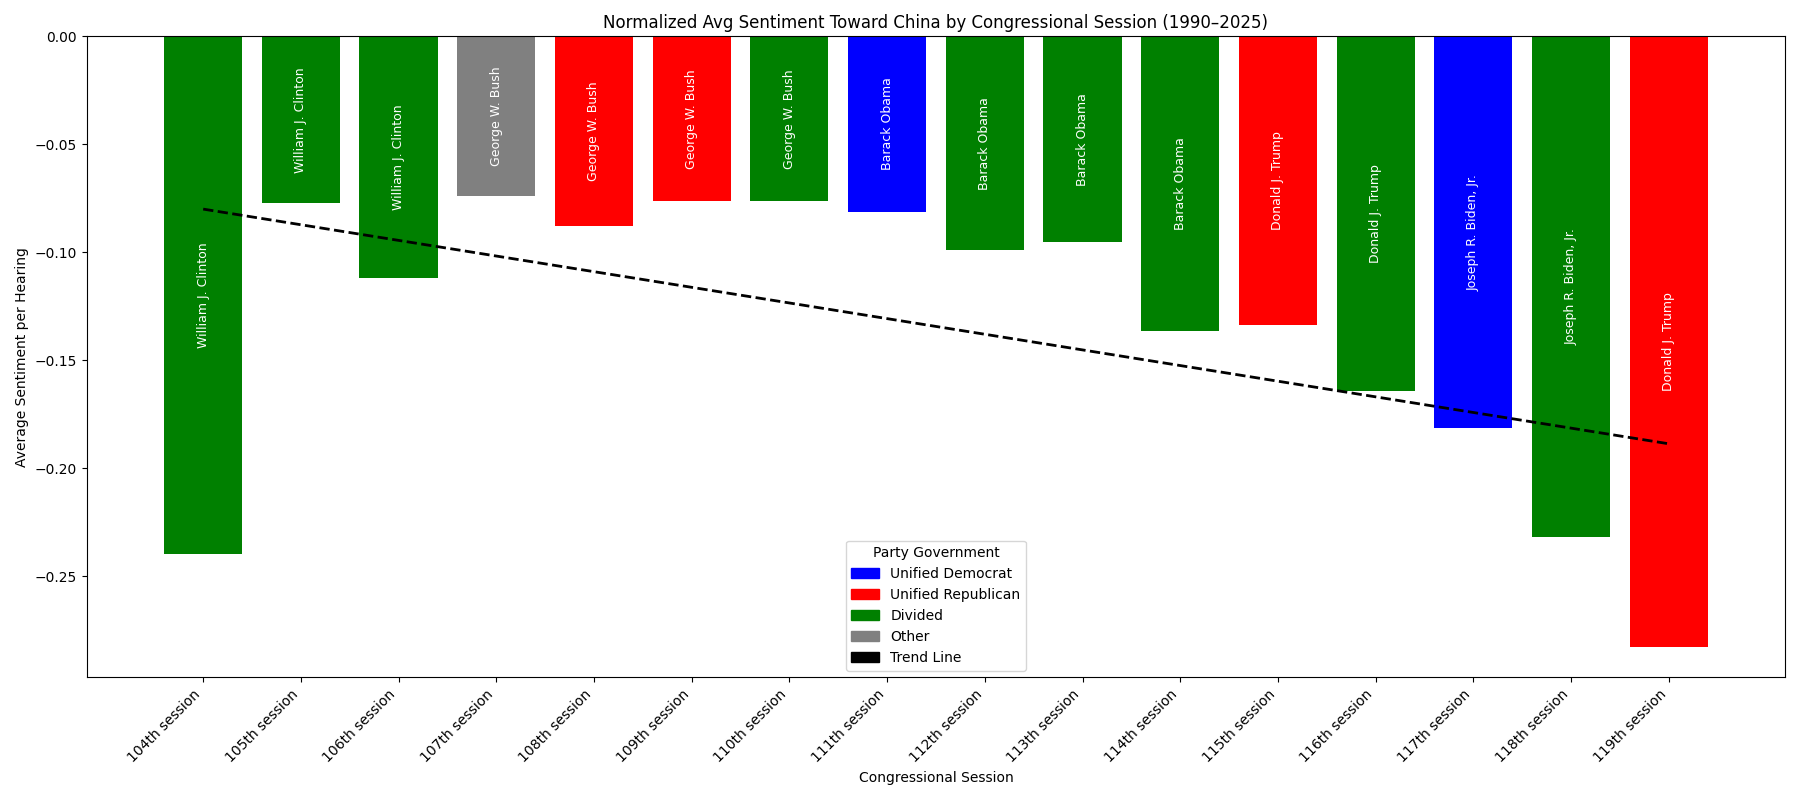
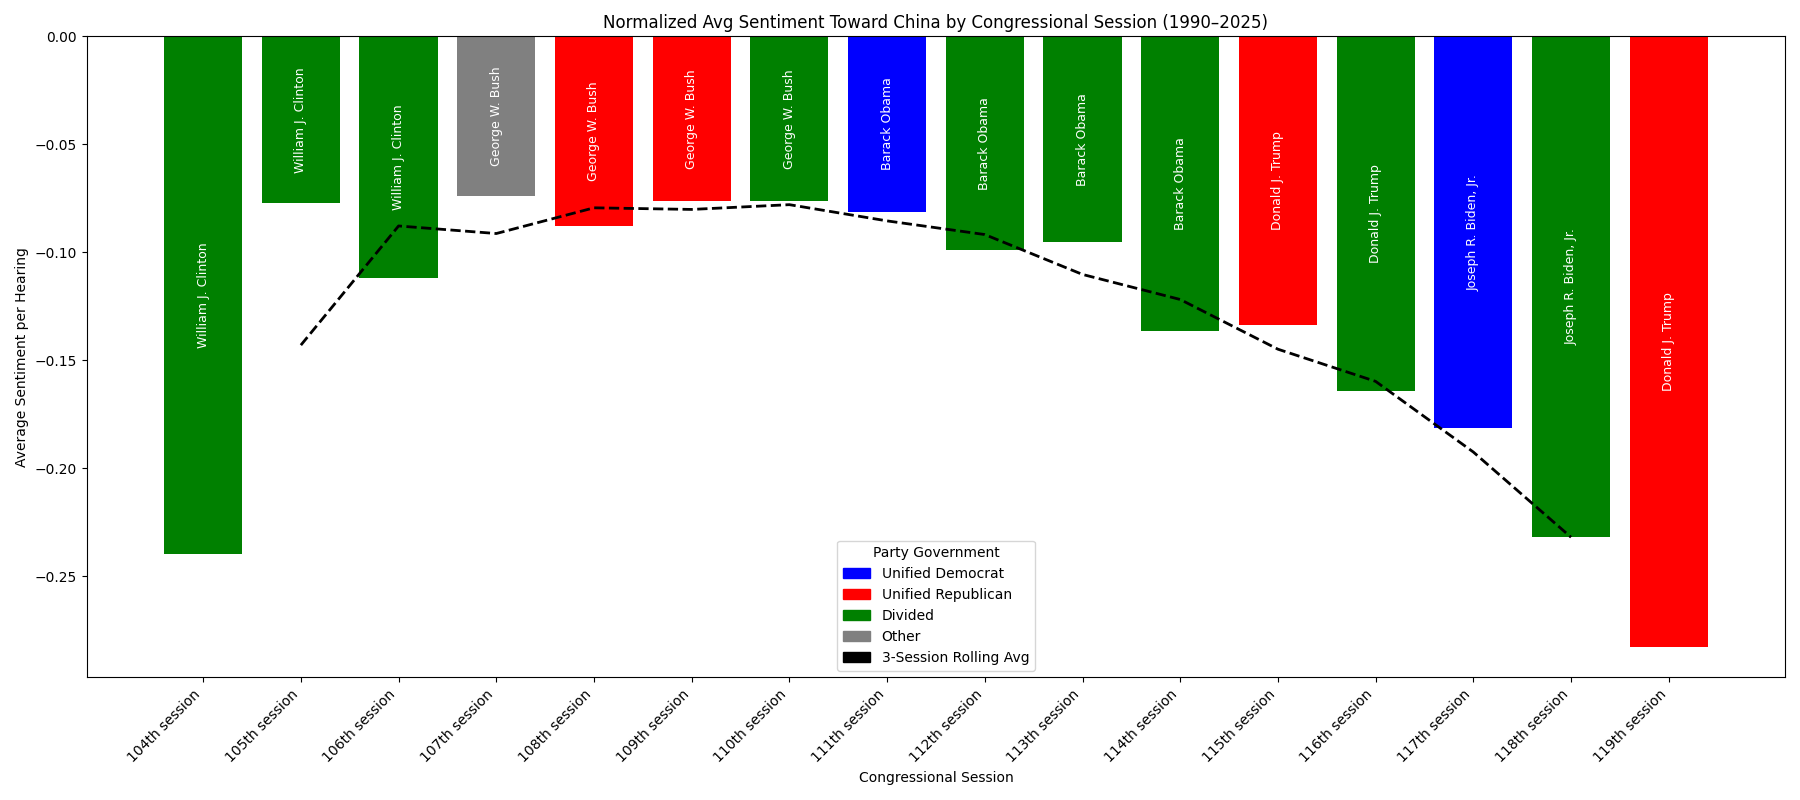
moding things

diff --git a/4. CCH/SCRIPT_CCH_6_visualizations.py b/4. CCH/SCRIPT_CCH_6_visualizations.py
@@ -74,18 +74,17 @@ for i, bar in enumerate(bars):
         rotation=90
     )
 
-# === Add Trend Line ===
-x = sentiment_by_session["Session Number"]
-y = sentiment_by_session["China Sentiment"]
-z = np.polyfit(x, y, 1)
-p = np.poly1d(z)
+# === Add Rolling Average Line ===
+rolling_window = 3  # adjust the size as needed
+sentiment_by_session["Rolling Avg"] = sentiment_by_session["China Sentiment"].rolling(window=rolling_window, center=True).mean()
+
 plt.plot(
     sentiment_by_session["Congress Session"],
-    p(x),
+    sentiment_by_session["Rolling Avg"],
     color="black",
     linestyle="--",
     linewidth=2,
-    label="Trend Line"
+    label=f"{rolling_window}-Session Rolling Avg"
 )
 
 # Labels and title
@@ -100,7 +99,7 @@ legend_patches = [
     mpatches.Patch(color='red', label='Unified Republican'),
     mpatches.Patch(color='green', label='Divided'),
     mpatches.Patch(color='gray', label='Other'),
-    mpatches.Patch(color='black', label='Trend Line')
+    mpatches.Patch(color='black', label=f"{rolling_window}-Session Rolling Avg")
 ]
 plt.legend(handles=legend_patches, title="Party Government")
 
